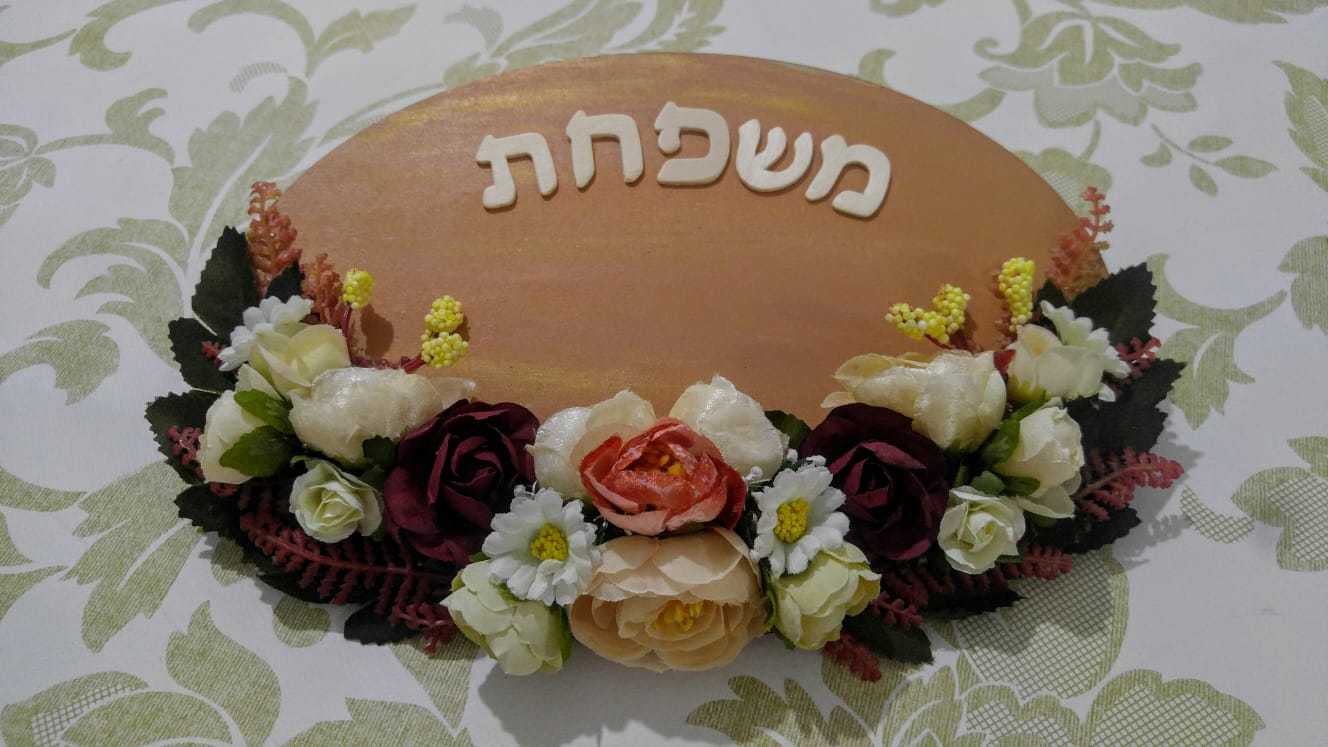
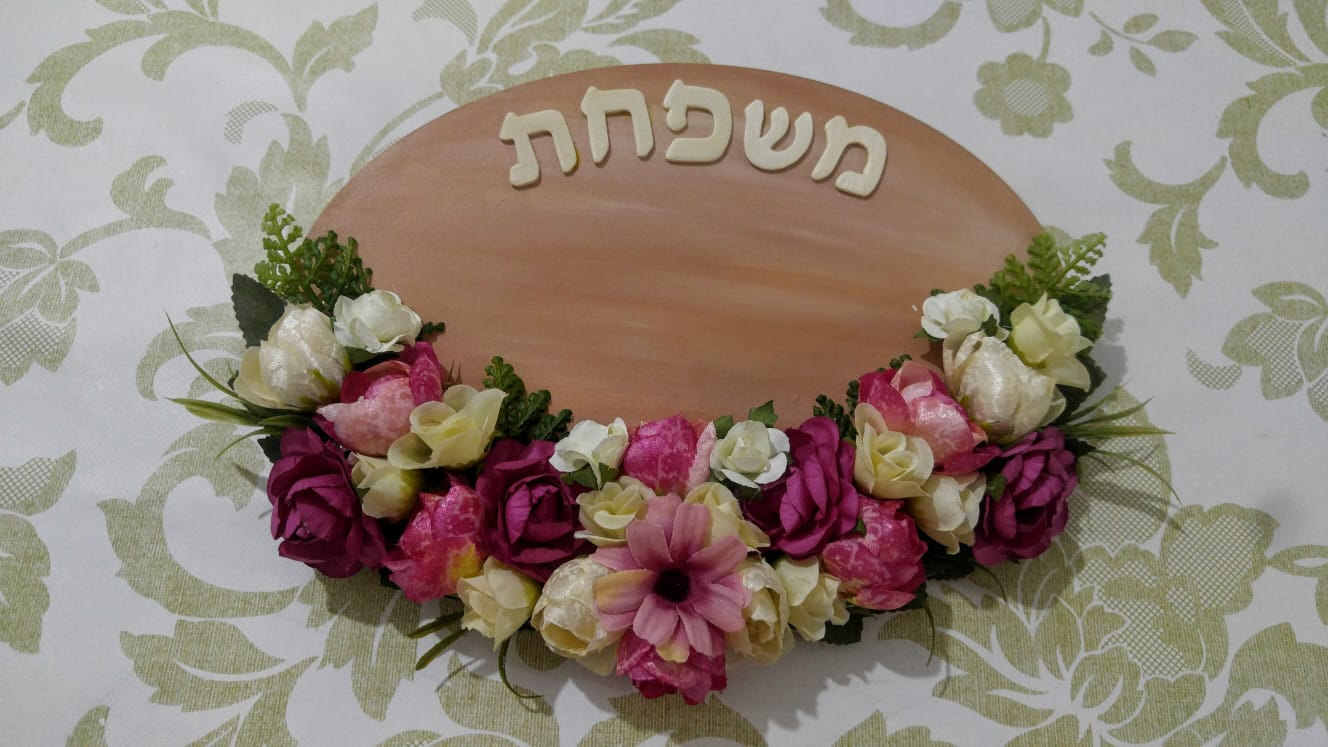
update image

diff --git a/index.html b/index.html
@@ -36,8 +36,10 @@
             </div>
             <div class="row mt-lg-5">
                 <div class="col-12">
-                    <div class="title-header">מטפחות מעוצבות</div>
-                    <p class="sub-title">מטרתנו שכל אחת תוכל לרכוש כיסוי ראש מעוצב ושווה לכל כיס.</p>
+                    <div class="title-header">שלטים מעוצבים לבית</div>
+                    <p class="sub-title">
+                        כל שלט הינו ייחודי ונעשה בעבודת יד.
+                    </p>
                 </div>
             </div>
         </div>
